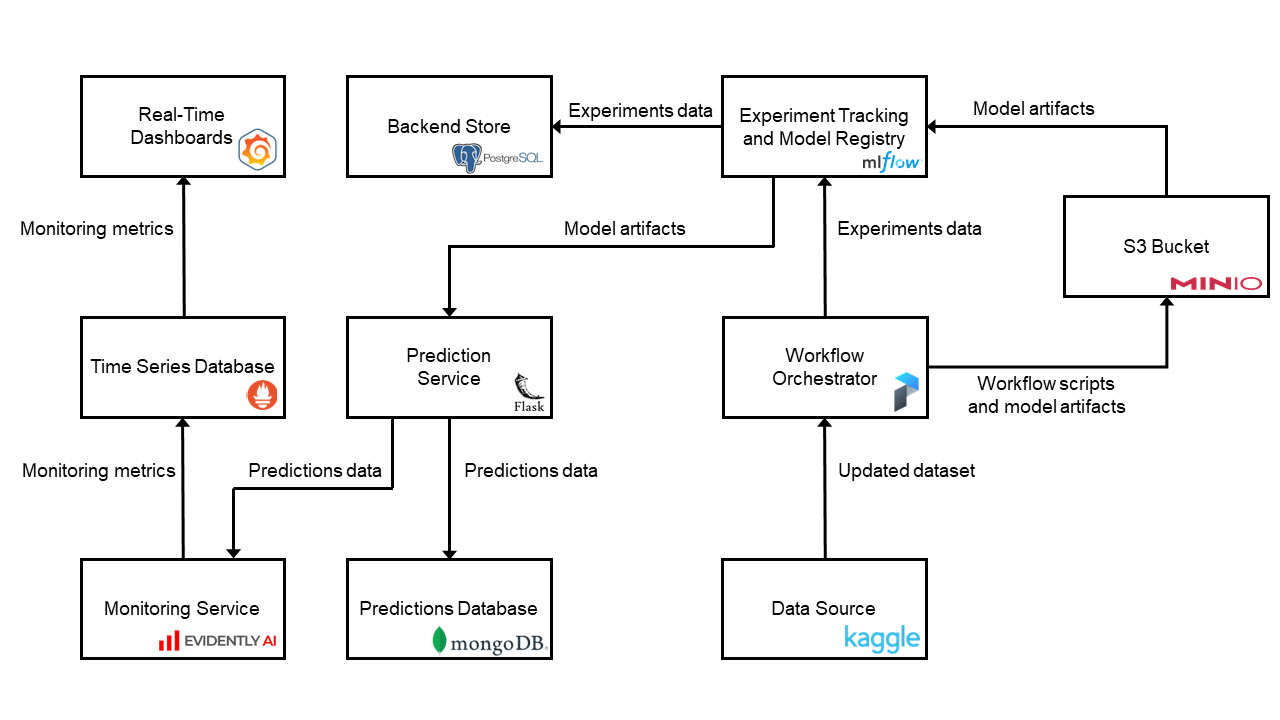
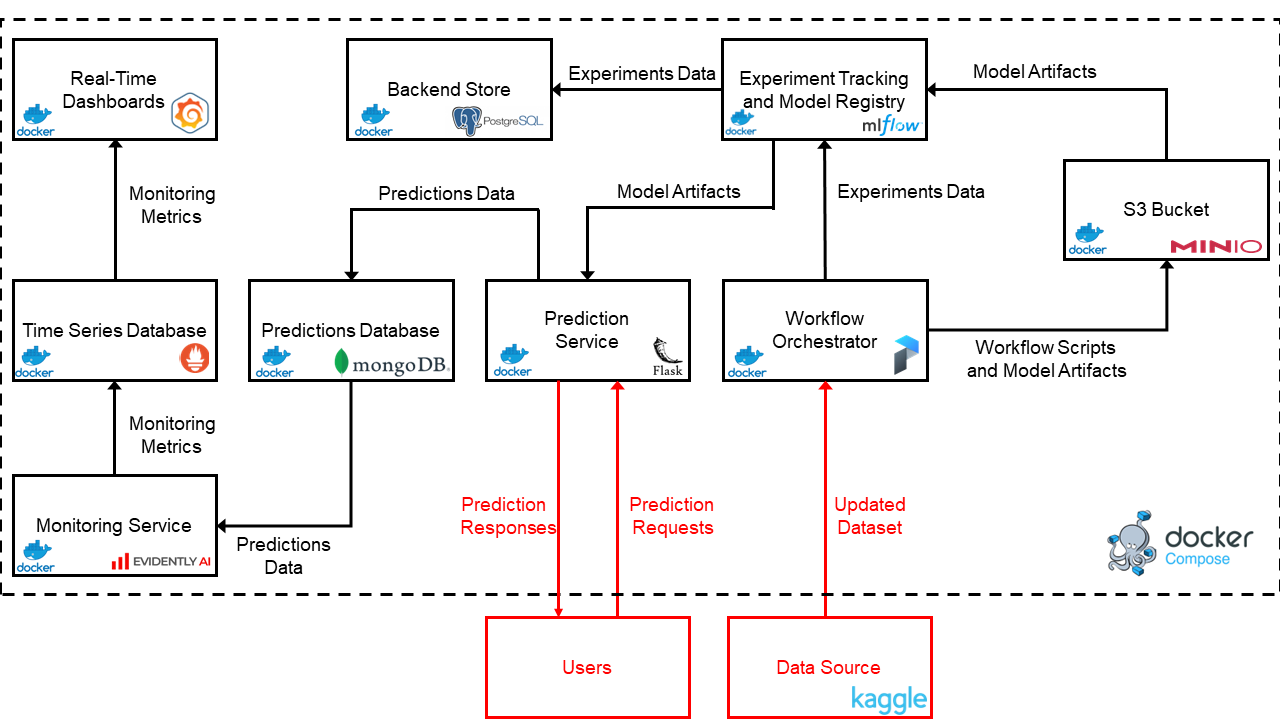
Updated documentation (#3)

diff --git a/README.md b/README.md
@@ -2,9 +2,7 @@
 
 ## Objective
 
-This repository represents the final project for the [MLOps Zoomcamp](https://github.com/DataTalksClub/mlops-zoomcamp) course provided by [DataTalks.Club](https://datatalks.club/). The goal of the project is to apply what has been learned during the course to build an MLOps pipeline for woman health risk during pregnancy.
-
-The developed maternal health risk prediction service is currently available [here](http://maternal.peco602.com) as a public web service.
+This repository contains the final project for the [MLOps Zoomcamp](https://github.com/DataTalksClub/mlops-zoomcamp) course provided by [DataTalks.Club](https://datatalks.club/).
 
 
 ## Context
@@ -13,20 +11,24 @@ According to the World Health Organization (WHO):
 
 "*Maternal health refers to the health of women during pregnancy, childbirth and the post-natal period. Each stage should be a positive experience, ensuring women and their babies reach their full potential for health and well-being. Although important progress has been made in the last two decades, about 295 000 women died during and following pregnancy and childbirth in 2017. This number is unacceptably high. The most common direct causes of maternal injury and death are excessive blood loss, infection, high blood pressure, unsafe abortion, and obstructed labour, as well as indirect causes such as anemia, malaria, and heart disease. Most maternal deaths are preventable with timely management by a skilled health professional working in a supportive environment. Ending preventable maternal death must remain at the top of the global agenda. At the same time, simply surviving pregnancy and childbirth can never be the marker of successful maternal health care. It is critical to expand efforts reducing maternal injury and disability to promote health and well-being. Every pregnancy and birth is unique. Addressing inequalities that affect health outcomes, especially sexual and reproductive health and rights and gender, is fundamental to ensuring all women have access to respectful and high-quality maternity care.*"
 
+The goal of the project is to apply what has been learned during the MLOps Zoomcamp course to build a MLOps pipeline for woman health risk prediction during pregnancy. 
+
+The developed prediction service is currently publicly available [here](http://maternal.peco602.com).
+
 
 ## Dataset
 
-The dataset used to feed the MLOps pipeline has been downloaded from [Kaggle](https://www.kaggle.com/datasets/pyuxbhatt/maternal-health-risk) and contains data collected from different hospitals, community clinics and maternal health cares through an IoT-based risk monitoring system. The provided dataset is updated daily and is characterized by the following features:
+The dataset used to feed the MLOps pipeline has been downloaded from [Kaggle](https://www.kaggle.com/datasets/pyuxbhatt/maternal-health-risk) and contains data collected from several hospitals, community clinics and maternal health cares through an IoT-based risk monitoring system. The dataset is updated daily and is characterized by the following features:
 
 | Feature | Description |
 | --- | --- |
-| Age | Age in years when a woman is pregnant. |
-| SystolicBP | Upper value of Blood Pressure in mmHg. |
-| DiastolicBP | Lower value of Blood Pressure in mmHg. |
-| BS | Blood glucose levels is in terms of a molar concentration in mmol/L. |
-| HeartRate | A normal resting heart rate in beats per minute. |
+| Age | Age when a woman is pregnant. |
+| SystolicBP | Upper value of blood pressure. |
+| DiastolicBP | Lower value of blood pressure. |
+| BS | Blood glucose levels in terms of molar concentration. |
+| HeartRate | A normal resting heart rate. |
 | BodyTemp | Average human body temperature. |
-| Risk Level | Predicted Risk Intensity Level during pregnancy considering the previous attribute. |
+| Risk Level | Predicted risk intensity level during pregnancy considering the previous attributes. |
 
 
 ## MLOps pipeline
@@ -38,7 +40,7 @@ The dataset used to feed the MLOps pipeline has been downloaded from [Kaggle](ht
 
 ### Deployment
 
-The pipeline can be deployed via the following steps:
+The MLOps pipeline is fully dockerised and can be easily deployed via the following steps:
 
 1. Clone the `maternal-health-risk` repository locally:
 
@@ -46,7 +48,7 @@ The pipeline can be deployed via the following steps:
     $ git clone https://github.com/Peco602/maternal-health-risk.git
     ```
 
-2. Install all the pre-requisites necessary to run the pipeline:
+2. Install the pre-requisites necessary to run the pipeline:
 
     ```bash
     $ cd maternal-health-risk
@@ -54,14 +56,14 @@ The pipeline can be deployed via the following steps:
     $ make prerequisites
     ```
 
-    Optionally, you can add your user to the `docker` group to avoid running the next steps as `sudo`:
+    It is also suggested to add the current user to the `docker` group to avoid running the next steps as `sudo`:
 
     ```bash
     $ sudo groupadd docker
     $ sudo usermod -aG docker $USER
     ```
 
-    then, logout and log back in so that your group membership is re-evaluated.
+    then, logout and log back in so that the group membership is re-evaluated.
 
 3. [*Optional*] Configure the development evironment:
 
@@ -69,7 +71,7 @@ The pipeline can be deployed via the following steps:
     $ make setup
     ```
 
-    This is required to perform further development and testing.
+    This is required to perform further development and testing on the pipeline.
 
 4. [*Optional*] Insert Kaggle credentials in the `.env` file to allow the automatic scheduled dataset update:
 
@@ -81,7 +83,7 @@ The pipeline can be deployed via the following steps:
 
     In case the credentials are not available, the training dataset `data/data.csv` must be updated manually.
 
-5. Pull the required Docker images:
+5. Pull the Docker images:
 
     ```
     $ make pull
@@ -97,23 +99,26 @@ The pipeline can be deployed via the following steps:
 
     | Service | Port | Interface | Description |
     | --- | --- | --- | --- |
-    | Web Application | 80 | 0.0.0.0 | Prediction web service |
+    | Web Application | 80 | 0.0.0.0 | Prediction web service (see picture below) |
     | Prefect | 4200 | 127.0.0.1 | Training workflow orchestration |
     | MLFlow | 5000 | 127.0.0.1 | Experiment tracking and model registry |
     | MinIO | 9001 | 127.0.0.1 | S3-equivalent bucket management |
-    | Evidently | 8085 | 127.0.0.1 | Data and target drift report generation (`/dashboard` route)|
+    | Evidently | 8085 | 127.0.0.1 | Data and target drift report generation (`/dashboard` route) |
     | Grafana | 3000 | 127.0.0.1 | Data and target drift real-time dashboards |
+
+
+    <img src="images/webservice.png" width="100%"/>
 
 
 ### Training
 
-Once the MLOps pipeline has been started, the prediction web service can work via a default pre-trained model already available in the Docker image. In order to enable pipeline automatic training it is necessary to enable the dedicated Prefect deployment via:
+Once the MLOps pipeline has been started, the prediction web service can already work thanks to a default pre-trained model available in the Docker image. In order to enable pipeline training workflow it is necessary to create a scheduled Prefect deployment via:
 
 ```
 $ make deployment
 ```
 
-It will automatically download the updated dataset (if the Kaggle credentials have been provided) and search the best model in terms of accuracy among XGBoost, Support Vector Machine and Random Forest. It is worth noting the training workflow can also be immediately executed without waiting the schedule:
+The training workflow will be then automatically executed every day. It will download the latest dataset (if the Kaggle credentials have been provided), search the best model in terms of accuracy among XGBoost, Support Vector Machine and Random Forest and finally will store it in the model registry. It is worth noting the training workflow can also be immediately executed without waiting the next schedule:
 
 ```
 $ make train
@@ -125,7 +130,7 @@ Once the updated model is ready, it can be moved to production by restarting the
 $ make restart
 ```
 
-the web service will automatically connect to the registry to get the latest model. If the model is not available, it will continue to use the default one.
+the web service will automatically connect to the registry and get the most updated model. If the model is still not available, it will continue to use the default one.
 
 
 ### Monitoring
@@ -138,8 +143,8 @@ $ make generate-traffic
 
 Then, the prediction service can be monitored via:
 
-- Grafana in real-time: `http://127.0.0.1:3000`
-- Evidently report: `http://127.0.0.1:8085/dashboard`
+- Grafana (in real-time): `http://127.0.0.1:3000`
+- Evidently (for report generation): `http://127.0.0.1:8085/dashboard`
 
 
 ### Disposal
@@ -159,8 +164,8 @@ $ make clean
 
 ## GitHub Actions
 
-- **Continuous Integration**: On every push and pull request on `main` and `dev` branches, Docker images are built, tested and then pushed to DockerHub.
-- **Continuous Deployment**: On every push and pull request on `main` branch, only if the Continuous Integration workflow is successful, the updated prediction service is deployed to the target server.
+- **Continuous Integration**: On every push and pull request on `main` and `dev` branches, the Docker images are built, tested and then pushed to DockerHub.
+- **Continuous Deployment**: On every push and pull request on `main` branch, only if the Continuous Integration workflow has been successful successful, the updated pipeline is deployed to the target server and run.
 
 
 ## Applied technologies
@@ -174,6 +179,8 @@ $ make clean
 | MLFlow | Experiment tracking and model registry. |
 | PostgreSQL | MLFLow experiment tracking database. |
 | MinIO | High Performance Object Storage compatible with Amazon S3 cloud storage service. |
+| Flask | Web server. |
+| Bootstrap | Frontend toolkit. |
 | MongoDB | Prediction database. |
 | EvidentlyAI | ML models evaluation and monitoring. |
 | Prometheus | Time Series Database for ML models real-time monitoring. |
@@ -188,4 +195,4 @@ $ make clean
 
 ## Disclaimer
 
-This predictor has been developed as the final project of the MLOps Zoomcamp course from DataTalks.Club. It does not provide medical advice and it is intended for informational purposes only. It is not a substitute for professional medical advice, diagnosis or treatment. Never ignore professional medical advice in seeking treatment because of something you have read here.
+This prediction service has been developed as the final project of the MLOps Zoomcamp course from DataTalks.Club. It does not provide medical advice and it is intended for informational purposes only. It cannot be considered a substitute for professional medical advice, diagnosis or treatment. Never ignore professional medical advice in seeking treatment because of something you have read here.
